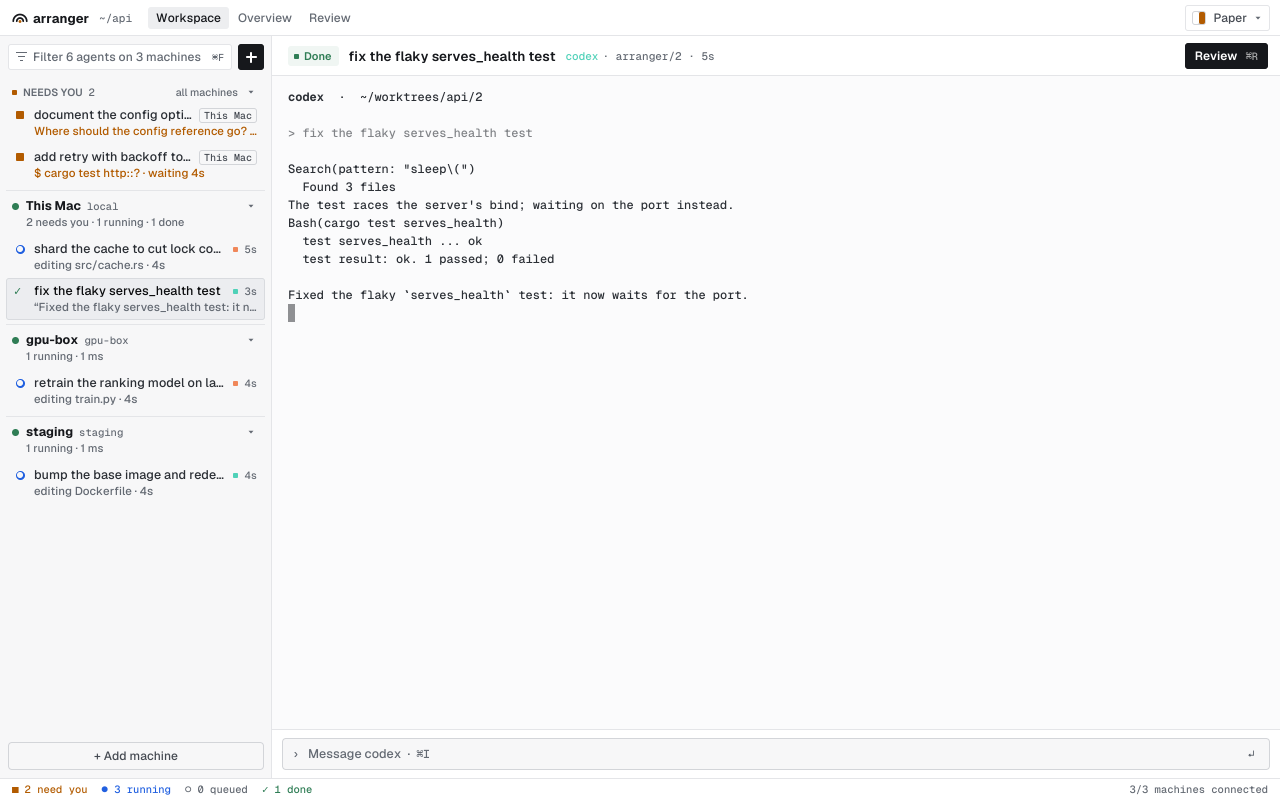
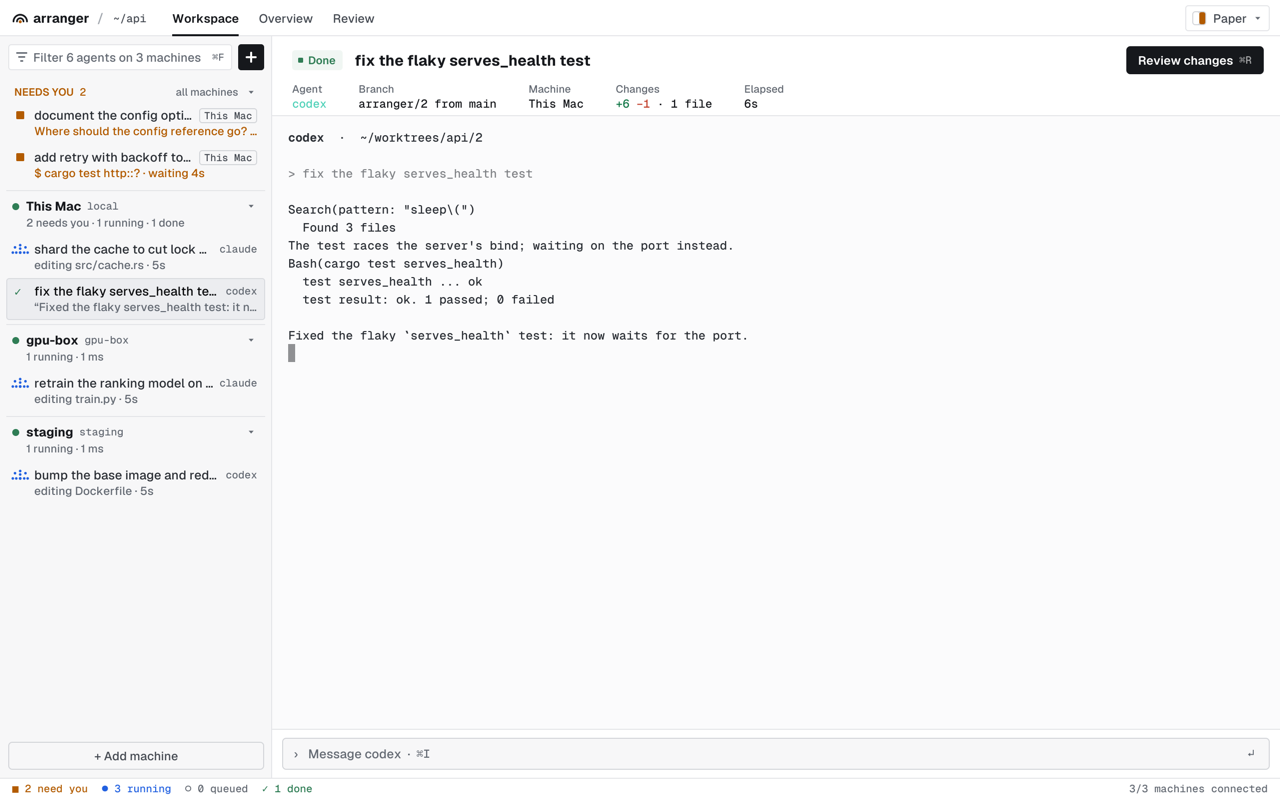
Enterprise UI artifact prototypes

diff --git a/src/bin/arranger-gui/main.rs b/src/bin/arranger-gui/main.rs
@@ -50,7 +50,7 @@ use winit::window::{CursorIcon, Window, WindowAttributes, WindowId};
 const TITLE_H: f32 = 36.0;
 const STATUS_H: f32 = 22.0;
 const SIDEBAR_W: f32 = 272.0;
-const HEADER_H: f32 = 40.0;
+const HEADER_H: f32 = 80.0;
 const ROW_H: f32 = 28.0;
 /// A row with its second line (what the agent is doing / did).
 const ROW2_H: f32 = 42.0;
@@ -299,6 +299,12 @@ struct App {
     dragging: Option<Divider>,
     caret_on: bool,
     blink_at: Instant,
+    /// Whether the window has focus: running icons only play while it does.
+    focused: bool,
+    /// The clock running icons play to.
+    epoch: Instant,
+    /// The selected task's diff at its last probe: base branch, files, lines added and removed.
+    stats: std::collections::HashMap<TaskKey, (String, usize, u32, u32)>,
 }
 
 fn main() {
@@ -375,6 +381,9 @@ fn run() -> io::Result<()> {
         dragging: None,
         caret_on: true,
         blink_at: Instant::now(),
+        focused: true,
+        epoch: Instant::now(),
+        stats: Default::default(),
     };
     let settings = Settings::load();
     app.theme = THEMES.iter().position(|t| t.name == settings.theme).unwrap_or(0);
@@ -477,12 +486,13 @@ impl ApplicationHandler<Msg> for App {
         }
     }
 
-    /// Wakes only to blink the caret while a text field has focus, to animate the Review button, or to
-    /// glide a wheel notch.
+    /// Wakes only to blink the caret while a text field has focus, to animate the Review button, to
+    /// glide a wheel notch, or to play running icons.
     fn about_to_wait(&mut self, el: &ActiveEventLoop) {
         let blink = (!matches!(self.focus, Focus::Term | Focus::Normal)).then_some(self.blink_at);
         let moving = self.glide != 0.0 || self.review.as_ref().is_some_and(|rv| rv.animating());
-        let frame = moving.then(|| Instant::now() + Duration::from_millis(if self.glide != 0.0 { 16 } else { 33 }));
+        let ms = if self.glide != 0.0 { 16 } else if moving { 33 } else { 80 };
+        let frame = (moving || self.sweep().is_some()).then(|| Instant::now() + Duration::from_millis(ms));
         match blink.into_iter().chain(frame).min() {
             Some(at) => el.set_control_flow(ControlFlow::WaitUntil(at)),
             None => el.set_control_flow(ControlFlow::Wait),
@@ -581,6 +591,10 @@ impl ApplicationHandler<Msg> for App {
                 self.redraw();
             }
             WindowEvent::ScaleFactorChanged { .. } => self.redraw(),
+            WindowEvent::Focused(on) => {
+                self.focused = on;
+                self.redraw();
+            }
             WindowEvent::ModifiersChanged(m) => self.mods = m.state(),
             WindowEvent::CursorMoved { position, .. } => {
                 let dpi = self.scale() as f64;
@@ -909,6 +923,13 @@ impl App {
 
     fn current(&self) -> Option<&TaskInfo> {
         self.selected.and_then(|k| self.task(k))
+    }
+
+    /// Seconds on the running icons' clock, while one is on screen and the window has focus; None
+    /// draws them still.
+    fn sweep(&self) -> Option<f32> {
+        let shown = !self.welcome && self.review.is_none() && self.all_tasks().any(|t| group(&t.state) == 1);
+        (shown && self.focused).then(|| self.epoch.elapsed().as_secs_f32())
     }
 
     /// The selected task has a diff to review; true until its probe answers.
@@ -1937,7 +1958,11 @@ impl App {
         let home = std::env::var("HOME").unwrap_or_default();
         let repo = self.repo.display().to_string();
         let repo = repo.strip_prefix(&home).map_or(repo.clone(), |rest| format!("~{rest}"));
-        let rw = if self.welcome { 0.0 } else { r.text(x + 10.0, r.center(bar, MONO, 11.0), &repo, MONO, 11.0, 400, t.text3, 400.0) };
+        if !self.welcome {
+            r.text(x + 8.0, r.center(bar, UI, 13.0), "/", UI, 13.0, 400, t.faint, 20.0);
+        }
+        let x = x + 14.0;
+        let rw = if self.welcome { 0.0 } else { r.text(x + 10.0, r.center(bar, MONO, 11.0), &repo, MONO, 11.0, 400, t.text2, 400.0) };
         // The project path: click it to switch projects.
         if !self.welcome && self.hit(r, Rect::new(x + 4.0, 7.0, rw + 12.0, 22.0)) {
             self.actions.push(Action::Welcome);
@@ -1948,13 +1973,13 @@ impl App {
         let (review, overview) = (self.review.is_some(), self.overview && self.review.is_none());
         let tabs = [("Workspace", !review && !overview), ("Overview", overview), ("Review", review)];
         for (label, on) in tabs.into_iter().filter(|_| !self.welcome) {
-            let tw = r.measure(UI, 12.0, 400, label) + 16.0;
-            let tab = Rect::new(nx, 7.0, tw, 22.0);
+            let tw = r.measure(UI, 12.0, if on { 500 } else { 400 }, label) + 20.0;
+            let tab = Rect::new(nx, 0.0, tw, TITLE_H);
             if on {
-                r.rect(tab, 3.0, t.raised);
+                r.rect(Rect::new(tab.x + 10.0, TITLE_H - 2.0, tw - 20.0, 2.0), 0.0, t.text);
             }
             let off = label == "Review" && !on && !self.reviewable();
-            r.text(tab.x + 8.0, r.center(tab, UI, 12.0), label, UI, 12.0, 400, if on { t.text } else if off { alpha(t.text3, 90) } else { t.text3 }, tw);
+            r.text(tab.x + 10.0, r.center(tab, UI, 12.0), label, UI, 12.0, if on { 500 } else { 400 }, if on { t.text } else if off { alpha(t.text3, 90) } else { t.text2 }, tw);
             if self.hit(r, tab) && !on && !off {
                 self.actions.push(match label {
                     "Review" => Action::OpenReview,
@@ -1963,7 +1988,7 @@ impl App {
                     _ => Action::Overview(false),
                 });
             }
-            nx += tw + 1.0;
+            nx += tw;
         }
 
         // Scheme menu button: [swatch] Graphite ˅
@@ -2034,9 +2059,8 @@ impl App {
                 None if sec.tasks.is_empty() => continue,
                 None => {
                     let head = Rect::new(6.0, y + 4.0, self.sidebar_w - 13.0, GROUP_H - 4.0);
-                    r.rect(Rect::new(12.0, head.y + head.h / 2.0 - 2.5, 5.0, 5.0), 1.0, t.needs);
-                    let lw = r.text(23.0, r.center(head, UI, 10.5), "NEEDS YOU", UI, 10.5, 500, t.text3, 150.0);
-                    r.text(29.0 + lw, r.center(head, MONO, 10.5), &sec.tasks.len().to_string(), MONO, 10.5, 400, t.text3, 40.0);
+                    let lw = r.text(14.0, r.center(head, UI, 10.5), "NEEDS YOU", UI, 10.5, 500, t.needs, 150.0);
+                    r.text(20.0 + lw, r.center(head, MONO, 10.5), &sec.tasks.len().to_string(), MONO, 10.5, 400, t.needs, 40.0);
                     if multi {
                         let note = "all machines";
                         let nw = r.measure(UI, 10.5, 400, note);
@@ -2163,7 +2187,7 @@ impl App {
         if on {
             r.frame(row, 3.0, bg, t.sel_ring);
         }
-        state_icon(r, t, &task.state, row.x + 8.0, top.y + top.h / 2.0, bg);
+        state_icon(r, t, &task.state, row.x + 8.0, top.y + top.h / 2.0, bg, self.sweep());
         let text_x = row.x + 28.0;
         let right_w = if let Some(name) = machine {
             let cw = r.measure(MONO, 10.0, 400, name) + 10.0;
@@ -2172,12 +2196,10 @@ impl App {
             r.text(chip.x + 5.0, r.center(chip, MONO, 10.0), name, MONO, 10.0, 400, t.text2, cw);
             cw
         } else {
-            // How long it's been idle once done, else how long it has existed.
-            let time = if g == 3 && task.since != 0 { ago(task.since) } else { age(task) };
-            let tw = r.measure(MONO, 10.5, 400, &time);
-            r.rect(Rect::new(row.x + row.w - 8.0 - tw - 11.0, top.y + top.h / 2.0 - 2.5, 5.0, 5.0), 1.0, accent(adapter::kind(&task.agent)));
-            r.text(row.x + row.w - 8.0 - tw, r.center(top, MONO, 10.5), &time, MONO, 10.5, 400, t.text3, tw + 2.0);
-            tw + 11.0
+            let kind = adapter::kind(&task.agent);
+            let kw = r.measure(MONO, 10.5, 400, kind);
+            r.text(row.x + row.w - 8.0 - kw, r.center(top, MONO, 10.5), kind, MONO, 10.5, 400, t.text3, kw + 2.0);
+            kw
         };
         let tc = if g == 4 { t.text3 } else if on { t.tc_on } else { t.tc };
         let room = row.w - 28.0 - right_w - 14.0;
@@ -2214,38 +2236,70 @@ impl App {
         let color = state_color(t, &task.state);
         let tint = alpha(color, if t.dark { 0x14 } else { 0x12 });
 
-        // Header.
+        // Header: why it's here, the title and Review; under them, the task's details.
         let head = Rect::new(area.x, area.y, area.w, HEADER_H);
         r.rect(Rect::new(area.x, area.y + HEADER_H - 1.0, area.w, 1.0), 0.0, t.border);
+        let top = Rect::new(area.x, area.y + 10.0, area.w, 28.0);
         let why = reason(&task);
         let pw = r.measure(UI, 11.0, 500, &why).min(260.0) + 23.0;
-        let pill = Rect::new(area.x + 16.0, area.y + 10.0, pw, 20.0);
+        let pill = Rect::new(area.x + 20.0, top.y + 4.0, pw, 20.0);
         r.rect(pill, 3.0, tint);
         r.rect(Rect::new(pill.x + 6.0, pill.y + 7.5, 5.0, 5.0), 1.0, color);
         r.text(pill.x + 16.0, r.center(pill, UI, 11.0), &why, UI, 11.0, 500, color, pw - 20.0);
         let kind = adapter::kind(&task.agent);
-        // Remote tasks name their machine and repo first.
         let host = &self.hosts[task.machine];
-        let place = host.cfg.as_ref().map(|_| format!("{} · ", host.name())).unwrap_or_default();
-        let meta = format!("· {}{} · {}", place, task.branch, age(&task));
-        let meta_w = r.measure(MONO, 11.0, 400, kind) + r.measure(MONO, 11.0, 400, &meta) + 4.0;
-        let review_label = "Review";
+        let review_label = "Review changes";
         let review_key = mod_label("R");
-        let bw = r.measure(UI, 12.0, 500, review_label) + r.measure(MONO, 10.5, 400, &review_key) + 28.0;
-        let review = Rect::new(head.x + head.w - 12.0 - bw, head.y + 7.0, bw, 26.0);
+        let bw = r.measure(UI, 12.0, 500, review_label) + r.measure(MONO, 10.5, 400, &review_key) + 30.0;
+        let review = Rect::new(head.x + head.w - 16.0 - bw, top.y, bw, 28.0);
         let can = self.reviewable();
         let (bg, fg) = if can { (t.primary_bg, t.primary_fg) } else { (t.raised, alpha(t.text3, 120)) };
-        r.rect(review, 3.0, bg);
-        let rlw = r.text(review.x + 10.0, r.center(review, UI, 12.0), review_label, UI, 12.0, 500, fg, bw);
+        r.rect(review, 4.0, bg);
+        let rlw = r.text(review.x + 12.0, r.center(review, UI, 12.0), review_label, UI, 12.0, 500, fg, bw);
         r.text(review.x + 18.0 + rlw, r.center(review, MONO, 10.5), &review_key, MONO, 10.5, 400, alpha(fg, 160), 60.0);
         if can && self.hit(r, review) {
             self.actions.push(Action::OpenReview);
         }
-        let tx = pill.x + pw + 6.0 + ship_badge(r, t, &task.shipped, pill.x + pw + 6.0, pill.y + pill.h / 2.0) + 4.0;
-        let title_w = r.text(tx, r.center(head, UI, 13.5), &title(&task), UI, 13.5, 500, t.text, (head.w - (tx - head.x) - meta_w - 26.0 - bw).max(40.0));
-        let mx = tx + title_w + 10.0;
-        let kw = r.text(mx, r.center(head, MONO, 11.0), kind, MONO, 11.0, 400, accent(kind), 100.0);
-        r.text(mx + kw + 4.0, r.center(head, MONO, 11.0), &meta, MONO, 11.0, 400, t.text3, meta_w);
+        let tx = pill.x + pw + 8.0 + ship_badge(r, t, &task.shipped, pill.x + pw + 8.0, pill.y + pill.h / 2.0) + 4.0;
+        r.text(tx, r.center(top, UI, 15.0), &title(&task), UI, 15.0, 600, t.text, (review.x - tx - 16.0).max(40.0));
+
+        // Details: label over value, as many as fit.
+        let stats = self.stats.get(&(task.machine, task.id)).filter(|_| self.changes.get(&(task.machine, task.id)).is_some_and(|c| c.1.is_some()));
+        let from = stats.map(|s| s.0.as_str()).filter(|b| !b.is_empty() && *b != "HEAD" && *b != task.branch);
+        let branch = match from {
+            Some(base) => format!("{} from {base}", task.branch),
+            None => task.branch.clone(),
+        };
+        let changes: Vec<(String, Rgba)> = match stats {
+            Some(&(_, 0, ..)) => vec![("none yet".into(), t.text3)],
+            Some(&(_, files, added, removed)) => vec![
+                (format!("+{added}"), t.add),
+                (format!(" −{removed}"), t.del),
+                (format!(" · {files} file{}", if files == 1 { "" } else { "s" }), t.text),
+            ],
+            None => vec![("—".into(), t.text3)],
+        };
+        let details: [(&str, Vec<(String, Rgba)>); 5] = [
+            ("Agent", vec![(kind.to_string(), accent(kind))]),
+            ("Branch", vec![(branch, t.text)]),
+            ("Machine", vec![(host.name().to_string(), t.text)]),
+            ("Changes", changes),
+            ("Elapsed", vec![(age(&task), t.text)]),
+        ];
+        let (ly, vy) = (area.y + 46.0, area.y + 60.0);
+        let mut dx = area.x + 20.0;
+        for (label, parts) in details {
+            let w = parts.iter().map(|(s, _)| r.measure(MONO, 11.5, 400, s)).sum::<f32>().max(r.measure(UI, 10.5, 400, label));
+            if dx + w > head.x + head.w - 16.0 {
+                break;
+            }
+            r.text(dx, ly, label, UI, 10.5, 400, t.text3, w + 2.0);
+            let mut px = dx;
+            for (s, c) in &parts {
+                px += r.text(px, vy, s, MONO, 11.5, 400, *c, w + 2.0);
+            }
+            dx += w + 32.0;
+        }
 
         // Message box at the bottom; once the agent has ended, a bar to bring it back instead.
         let ended = group(&task.state) == 4;
@@ -2860,12 +2914,14 @@ fn ship_badge(r: &mut Renderer, t: &Theme, shipped: &str, x: f32, cy: f32) -> f3
     w
 }
 
-fn state_icon(r: &mut Renderer, t: &Theme, state: &str, x: f32, cy: f32, bg: Rgba) {
+/// `sweep` is the running icon's clock in seconds (see `ensemble`); None draws it still.
+fn state_icon(r: &mut Renderer, t: &Theme, state: &str, x: f32, cy: f32, bg: Rgba, sweep: Option<f32>) {
     let c = state_color(t, state);
     match group(state) {
         0 => r.rect(Rect::new(x + 2.0, cy - 4.0, 8.0, 8.0), 1.0, c),
-        1 | 2 => {
-            let (rad, stroke) = if group(state) == 1 { (4.5, 1.6) } else { (4.0, 1.1) };
+        1 => ensemble(r, x - 3.0, cy - 5.3, c, sweep),
+        2 => {
+            let (rad, stroke) = (4.0, 1.1);
             r.rect(Rect::new(x + 6.0 - rad, cy - rad, rad * 2.0, rad * 2.0), rad, c);
             let inner = rad - stroke;
             r.rect(Rect::new(x + 6.0 - inner, cy - inner, inner * 2.0, inner * 2.0), inner, bg);
@@ -2876,6 +2932,24 @@ fn state_icon(r: &mut Renderer, t: &Theme, state: &str, x: f32, cy: f32, bg: Rgb
             r.glyph_char(UI, '✓', x, cy - 6.0 + a * 0.85, 12.0, 600, color);
         }
     }
+}
+
+/// The running icon: the logo's players as eight dots on two arcs around a lit centre, 18 px wide
+/// with its top at `y`. With a clock (`sweep`, seconds) the players light up left to right on a 1.6 s
+/// loop; without one they're all lit.
+fn ensemble(r: &mut Renderer, x: f32, y: f32, color: Rgba, sweep: Option<f32>) {
+    const PLAYERS: [(f32, f32); 8] = [(5.6, 32.0), (13.4, 13.4), (17.9, 32.0), (31.8, 5.6), (31.8, 17.9), (46.1, 32.0), (50.6, 13.4), (58.4, 32.0)];
+    let dot = |cx: f32, cy: f32, rad: f32| format!("M{} {cy}a{rad} {rad} 0 1 0 {} 0a{rad} {rad} 0 1 0 -{} 0", cx - rad, rad * 2.0, rad * 2.0);
+    for (i, &(cx, cy)) in PLAYERS.iter().enumerate() {
+        // Each dot's pulse starts 0.15 s after the one before: up over 0.48 s, down over 0.48 s, then rests.
+        let lit = sweep.map_or(1.0, |s| {
+            let k = (s - i as f32 * 0.15).rem_euclid(1.6) / 1.6;
+            let ease = |v: f32| v * v * (3.0 - 2.0 * v);
+            if k < 0.3 { ease(k / 0.3) } else if k < 0.6 { 1.0 - ease((k - 0.3) / 0.3) } else { 0.0 }
+        });
+        r.path(20 + i as u16, &dot(cx, cy, 4.7), None, x, y, 18.0, alpha(color, (64.0 + 191.0 * lit) as u8));
+    }
+    r.path(28, &dot(31.8, 32.0, 5.2), None, x, y, 18.0, color);
 }
 
 /// The last terminal size recorded in a task log (the daemon writes `ESC [8;rows;cols t` on resize).

diff --git a/src/bin/arranger-gui/overview.rs b/src/bin/arranger-gui/overview.rs
@@ -120,7 +120,7 @@ impl App {
             if self.hit(r, row) && clicked(self.click) {
                 acts.push(Action::Select(key));
             }
-            state_icon(r, t, &task.state, col_x[0], row.y + row.h / 2.0, bg);
+            state_icon(r, t, &task.state, col_x[0], row.y + row.h / 2.0, bg, self.sweep());
             let (x, w) = col("TASK");
             let bw = if task.shipped.is_empty() { 0.0 } else { r.measure(UI, 10.5, 500, &format!("✓ {}", task.shipped)) + 16.0 };
             let tw = r.text(x, r.center(row, UI, 12.5), &title(task), UI, 12.5, 400, if g == 4 { t.text3 } else if on { t.tc_on } else { t.text }, w - bw);

diff --git a/src/bin/arranger-gui/review.rs b/src/bin/arranger-gui/review.rs
@@ -247,6 +247,15 @@ impl App {
             if let Some(c) = self.changes.get_mut(&key) {
                 c.1 = Some(has);
             }
+            match &reply {
+                Ok(Reply::Review(d)) => {
+                    let (added, removed) = d.files.iter().fold((0, 0), |(a, r), f| (a + f.added, r + f.removed));
+                    self.stats.insert(key, (d.base.clone(), d.files.len(), added, removed));
+                }
+                _ => {
+                    self.stats.remove(&key);
+                }
+            }
             return;
         }
         let Some(rv) = &mut self.review else {
